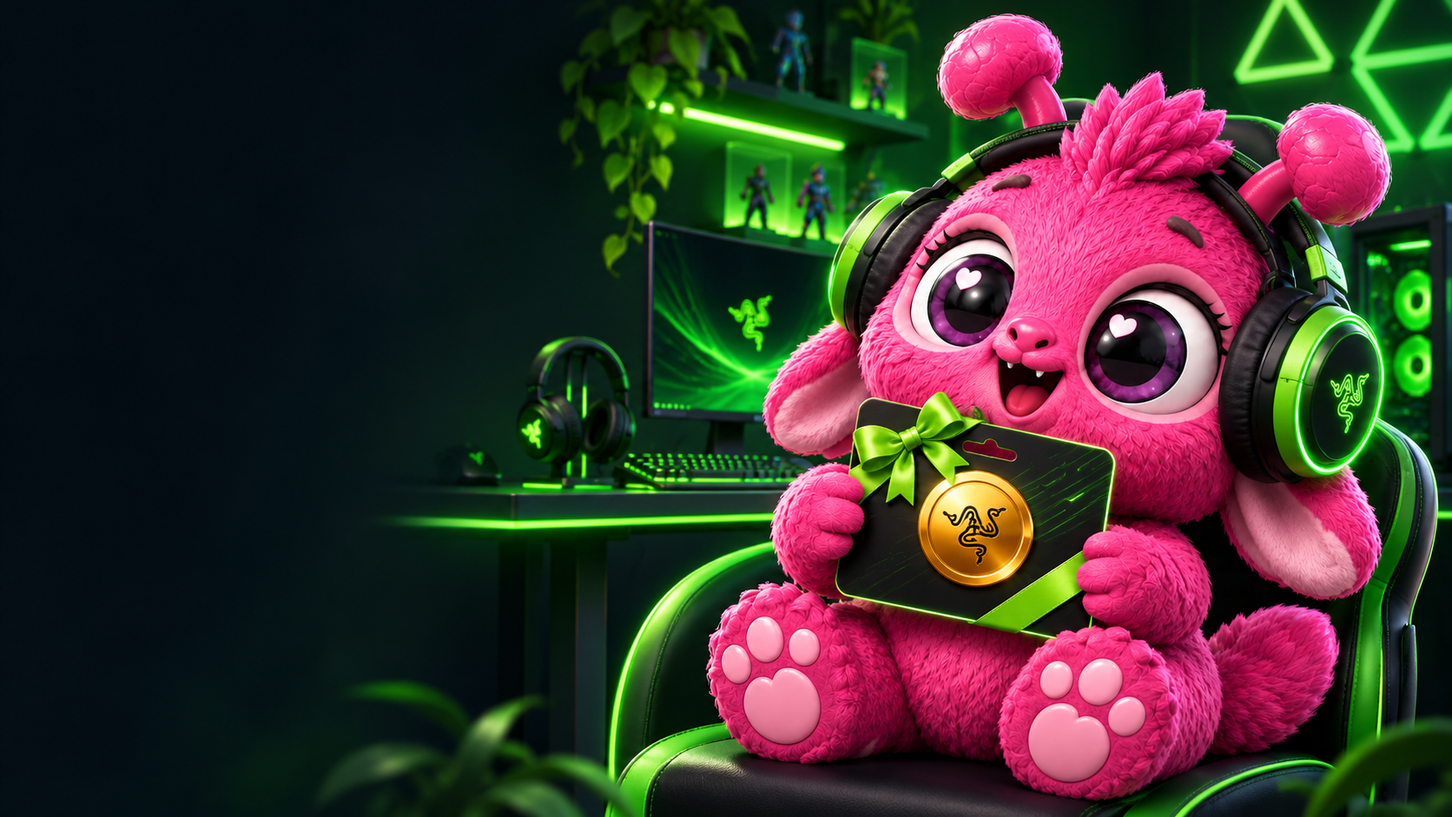
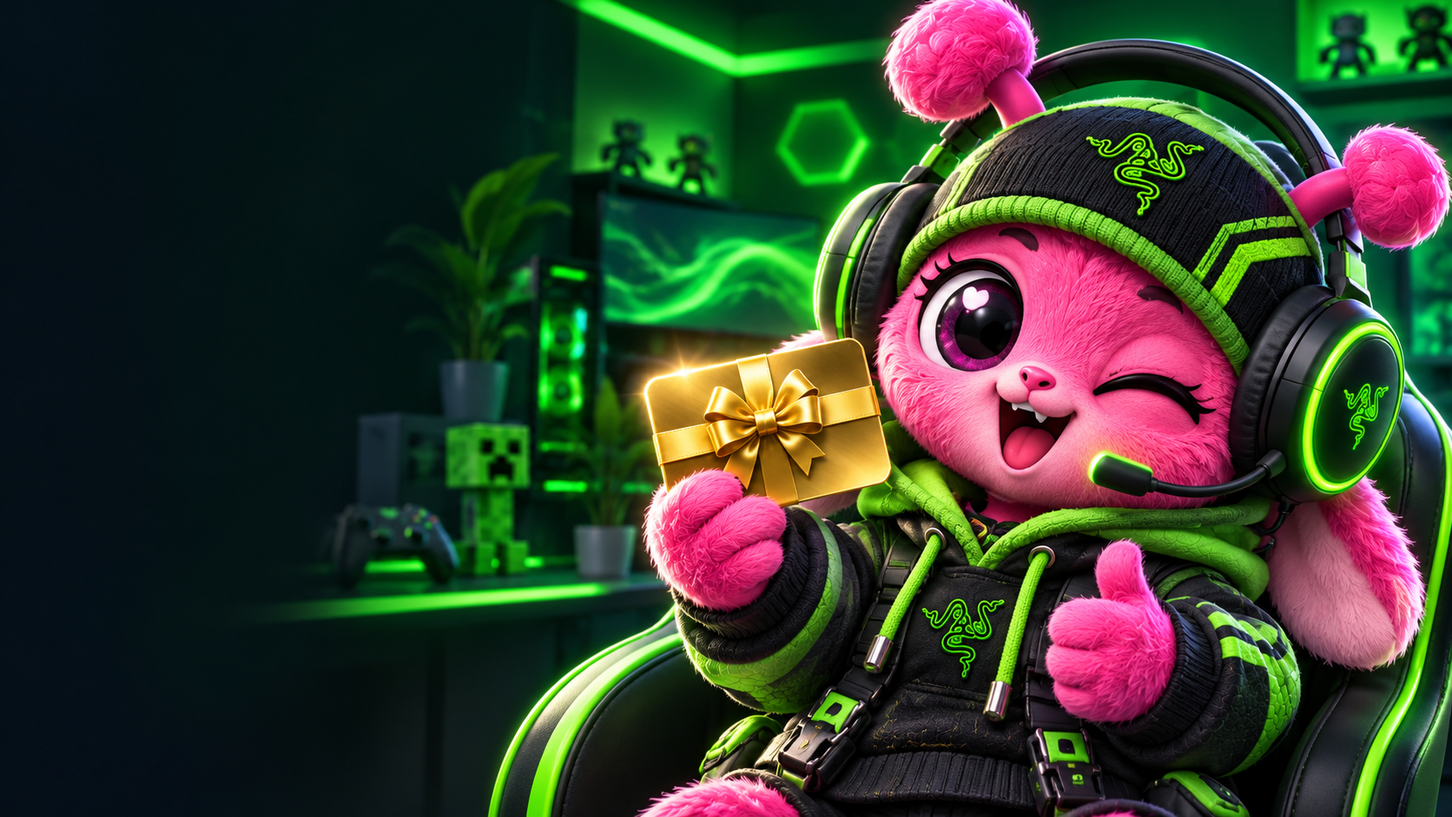
Match new mascot cards to existing catalog style

diff --git a/public/home.html b/public/home.html
@@ -127,7 +127,7 @@ html[data-theme="dark"] .topbar{background:#100e12;border-color:#252128}html[dat
 @media(max-width:1050px){.topbar{gap:12px}.nav{gap:12px}.brand-group{gap:10px}.brand-group .brand{padding-right:10px}.search{width:100%;min-width:0}.nav-right{gap:5px}.nav-right .pill,.account-button{padding:0 9px;font-size:11px}}
 @media(max-width:760px){.topbar{height:auto;min-height:64px;display:flex;flex-wrap:wrap;gap:10px;padding:12px 4%}.brand-group{order:0}.nav-right{order:1;margin-left:auto;display:flex;flex-wrap:wrap}.nav-right .pill{display:inline-flex}.nav{order:2;width:100%;justify-content:flex-start;gap:20px}.search{order:3;width:100%;max-width:none;flex:0 0 100%;margin:0}.nav a[aria-current="page"]:after{bottom:-4px}.nav-right .pill,.account-button{height:36px}.social-button{width:36px;height:36px}}
 @media(max-width:430px){.topbar{padding:12px 4%}.brand-group .brand{font-size:25px}.brand-group{gap:6px}.brand-group .brand{padding-right:6px}.theme-toggle{width:58px;min-width:58px}.nav-right{gap:4px}.nav-right .pill,.account-button{padding:0 7px;font-size:10px}.donut-icon{width:18px;height:18px}}
-</style><link rel="stylesheet" href="/assets/responsive.css?v=6"><link rel="stylesheet" href="/assets/polish.css?v=5"><link rel="stylesheet" href="/assets/platform-icons.css?v=3"><link rel="stylesheet" href="/assets/extra-field.css"></head>
+</style><link rel="stylesheet" href="/assets/responsive.css?v=7"><link rel="stylesheet" href="/assets/polish.css?v=5"><link rel="stylesheet" href="/assets/platform-icons.css?v=3"><link rel="stylesheet" href="/assets/extra-field.css"></head>
 <body>
 <header class="topbar"><div class="brand-group"><a class="brand" href="#top" aria-label="mupple — на главную">mupple</a><button class="round theme-toggle" type="button" aria-label="Включить тёмную тему" aria-pressed="false"><svg class="icon-sun" viewBox="0 0 24 24" fill="none" stroke="currentColor" stroke-width="2" aria-hidden="true"><circle cx="12" cy="12" r="4"/><path d="M12 2v2m0 16v2M4.93 4.93l1.42 1.42m11.3 11.3 1.42 1.42M2 12h2m16 0h2M4.93 19.07l1.42-1.42m11.3-11.3 1.42-1.42"/></svg><svg class="icon-moon" viewBox="0 0 24 24" fill="none" stroke="currentColor" stroke-width="2" aria-hidden="true"><path d="M20.9 13A9 9 0 0 1 11 3.1 9 9 0 1 0 20.9 13Z"/></svg></button></div><nav class="nav" aria-label="Главное меню"><a href="#top" aria-current="page">Главная</a><a href="/faq">FAQ</a><button class="nav-link" type="button" data-open="support-dialog">Поддержка</button></nav><label class="search"><svg viewBox="0 0 24 24" fill="none" stroke="currentColor" stroke-width="2"><circle cx="11" cy="11" r="7"/><path d="m16 16 4 4"/></svg><input id="search" type="search" placeholder="Ускорь процесс поиска" aria-label="Поиск по каталогу"></label><div class="nav-right"><button class="round social-button" type="button" data-open="social-dialog" aria-label="Социальные сети" title="Социальные сети"><svg viewBox="0 0 24 24" fill="none" stroke="currentColor" stroke-width="1.8" aria-hidden="true"><circle cx="18" cy="5" r="2.5"/><circle cx="6" cy="12" r="2.5"/><circle cx="18" cy="19" r="2.5"/><path d="m8.2 10.8 7.6-4.5M8.2 13.2l7.6 4.5"/></svg></button><button class="pill" type="button" data-open="cart-dialog"><svg class="cart-icon" viewBox="0 0 24 24" fill="none" stroke="currentColor" stroke-width="2" aria-hidden="true"><path d="M3 4h2l2.2 10.2h10.6l2-7.2H6"/><circle cx="9" cy="19" r="1.5"/><circle cx="17" cy="19" r="1.5"/></svg>КОРЗИНА <span id="cart-count">0</span></button><a class="pill donut-button" href="/donuts">DONUTS <span id="header-bonuses">0</span> <img class="donut-icon" src="/assets/donut-cartoon.png" alt="" width="26" height="26"></a><button class="account-button" id="account-button" type="button">ВОЙТИ</button></div></header>
 <main class="wrap" id="top"><div class="hero-grid"><section class="hero"><span class="hero-ground" aria-hidden="true"></span><div class="hero-copy"><h1>Сделай<br>игру<br><span class="pink">слаще</span></h1><p>Твой следующий любимый момент начинается с новой игры.</p><a class="primary" href="#balance">Пополнить баланс <span>↓</span></a></div><div class="ribbon" aria-hidden="true"><div class="ribbon-track"><span>MUPPLE <svg class="ribbon-gamepad" viewBox="0 0 64 48" aria-hidden="true"><path fill="currentColor" d="M16 7h32c7 0 11 5 13 12l3 13c2 9-4 15-11 13l-10-7H21l-10 7C4 47-2 41 0 32l3-13C5 12 9 7 16 7Z"/><path d="M15 18v12m-6-6h12" stroke="var(--ribbon-icon-detail)" stroke-width="4" stroke-linecap="round"/><circle cx="47" cy="20" r="2.5" fill="var(--ribbon-icon-detail)"/><circle cx="53" cy="25" r="2.5" fill="var(--ribbon-icon-detail)"/><circle cx="47" cy="30" r="2.5" fill="var(--ribbon-icon-detail)"/><circle cx="41" cy="25" r="2.5" fill="var(--ribbon-icon-detail)"/></svg> MUPPLE <svg class="ribbon-gamepad" viewBox="0 0 64 48" aria-hidden="true"><path fill="currentColor" d="M16 7h32c7 0 11 5 13 12l3 13c2 9-4 15-11 13l-10-7H21l-10 7C4 47-2 41 0 32l3-13C5 12 9 7 16 7Z"/><path d="M15 18v12m-6-6h12" stroke="var(--ribbon-icon-detail)" stroke-width="4" stroke-linecap="round"/><circle cx="47" cy="20" r="2.5" fill="var(--ribbon-icon-detail)"/><circle cx="53" cy="25" r="2.5" fill="var(--ribbon-icon-detail)"/><circle cx="47" cy="30" r="2.5" fill="var(--ribbon-icon-detail)"/><circle cx="41" cy="25" r="2.5" fill="var(--ribbon-icon-detail)"/></svg> MUPPLE <svg class="ribbon-gamepad" viewBox="0 0 64 48" aria-hidden="true"><path fill="currentColor" d="M16 7h32c7 0 11 5 13 12l3 13c2 9-4 15-11 13l-10-7H21l-10 7C4 47-2 41 0 32l3-13C5 12 9 7 16 7Z"/><path d="M15 18v12m-6-6h12" stroke="var(--ribbon-icon-detail)" stroke-width="4" stroke-linecap="round"/><circle cx="47" cy="20" r="2.5" fill="var(--ribbon-icon-detail)"/><circle cx="53" cy="25" r="2.5" fill="var(--ribbon-icon-detail)"/><circle cx="47" cy="30" r="2.5" fill="var(--ribbon-icon-detail)"/><circle cx="41" cy="25" r="2.5" fill="var(--ribbon-icon-detail)"/></svg> MUPPLE <svg class="ribbon-gamepad" viewBox="0 0 64 48" aria-hidden="true"><path fill="currentColor" d="M16 7h32c7 0 11 5 13 12l3 13c2 9-4 15-11 13l-10-7H21l-10 7C4 47-2 41 0 32l3-13C5 12 9 7 16 7Z"/><path d="M15 18v12m-6-6h12" stroke="var(--ribbon-icon-detail)" stroke-width="4" stroke-linecap="round"/><circle cx="47" cy="20" r="2.5" fill="var(--ribbon-icon-detail)"/><circle cx="53" cy="25" r="2.5" fill="var(--ribbon-icon-detail)"/><circle cx="47" cy="30" r="2.5" fill="var(--ribbon-icon-detail)"/><circle cx="41" cy="25" r="2.5" fill="var(--ribbon-icon-detail)"/></svg> </span><span>MUPPLE <svg class="ribbon-gamepad" viewBox="0 0 64 48" aria-hidden="true"><path fill="currentColor" d="M16 7h32c7 0 11 5 13 12l3 13c2 9-4 15-11 13l-10-7H21l-10 7C4 47-2 41 0 32l3-13C5 12 9 7 16 7Z"/><path d="M15 18v12m-6-6h12" stroke="var(--ribbon-icon-detail)" stroke-width="4" stroke-linecap="round"/><circle cx="47" cy="20" r="2.5" fill="var(--ribbon-icon-detail)"/><circle cx="53" cy="25" r="2.5" fill="var(--ribbon-icon-detail)"/><circle cx="47" cy="30" r="2.5" fill="var(--ribbon-icon-detail)"/><circle cx="41" cy="25" r="2.5" fill="var(--ribbon-icon-detail)"/></svg> MUPPLE <svg class="ribbon-gamepad" viewBox="0 0 64 48" aria-hidden="true"><path fill="currentColor" d="M16 7h32c7 0 11 5 13 12l3 13c2 9-4 15-11 13l-10-7H21l-10 7C4 47-2 41 0 32l3-13C5 12 9 7 16 7Z"/><path d="M15 18v12m-6-6h12" stroke="var(--ribbon-icon-detail)" stroke-width="4" stroke-linecap="round"/><circle cx="47" cy="20" r="2.5" fill="var(--ribbon-icon-detail)"/><circle cx="53" cy="25" r="2.5" fill="var(--ribbon-icon-detail)"/><circle cx="47" cy="30" r="2.5" fill="var(--ribbon-icon-detail)"/><circle cx="41" cy="25" r="2.5" fill="var(--ribbon-icon-detail)"/></svg> MUPPLE <svg class="ribbon-gamepad" viewBox="0 0 64 48" aria-hidden="true"><path fill="currentColor" d="M16 7h32c7 0 11 5 13 12l3 13c2 9-4 15-11 13l-10-7H21l-10 7C4 47-2 41 0 32l3-13C5 12 9 7 16 7Z"/><path d="M15 18v12m-6-6h12" stroke="var(--ribbon-icon-detail)" stroke-width="4" stroke-linecap="round"/><circle cx="47" cy="20" r="2.5" fill="var(--ribbon-icon-detail)"/><circle cx="53" cy="25" r="2.5" fill="var(--ribbon-icon-detail)"/><circle cx="47" cy="30" r="2.5" fill="var(--ribbon-icon-detail)"/><circle cx="41" cy="25" r="2.5" fill="var(--ribbon-icon-detail)"/></svg> MUPPLE <svg class="ribbon-gamepad" viewBox="0 0 64 48" aria-hidden="true"><path fill="currentColor" d="M16 7h32c7 0 11 5 13 12l3 13c2 9-4 15-11 13l-10-7H21l-10 7C4 47-2 41 0 32l3-13C5 12 9 7 16 7Z"/><path d="M15 18v12m-6-6h12" stroke="var(--ribbon-icon-detail)" stroke-width="4" stroke-linecap="round"/><circle cx="47" cy="20" r="2.5" fill="var(--ribbon-icon-detail)"/><circle cx="53" cy="25" r="2.5" fill="var(--ribbon-icon-detail)"/><circle cx="47" cy="30" r="2.5" fill="var(--ribbon-icon-detail)"/><circle cx="41" cy="25" r="2.5" fill="var(--ribbon-icon-detail)"/></svg> </span></div></div></section><section class="form-card" id="balance"><div class="form-head"><div class="steam-icon" data-platform-icon="steam" aria-hidden="true"><img src="/assets/platforms/steam.jpg" alt=""><span class="platform-initials" hidden></span></div><span class="badge">ПОПОЛНЕНИЕ</span></div><h2>ЗАРЯДИ БАЛАНС</h2><form id="topup"><div class="field"><label for="platform">Площадка</label><select id="platform"><option>Steam</option><option>Telegram Stars</option><option>Marvel Rivals</option><option>Free Fire</option><option>PUBG Mobile</option><option>Honkai: Star Rail</option></select></div><div class="field"><label for="login" id="login-label">Логин Steam</label><input id="login" placeholder="Логин, не никнейм" autocomplete="off"></div><div class="field" id="region-field"><label for="region">Регион Steam</label><select id="region"><option value="RUB">Россия · RUB</option><option value="KZT">Казахстан · KZT</option><option value="UAH">Украина · UAH</option></select></div><div class="field" id="extra-field" hidden><label for="extra-info" id="extra-label">Дополнительная информация (необязательно)</label><input id="extra-info" maxlength="120" autocomplete="off" placeholder="Без паролей и кодов входа"></div><div class="field" id="stars-field" hidden><label for="stars">Количество звёзд Telegram</label><input id="stars" type="number" min="1" max="13000000" step="1" inputmode="numeric" placeholder="Введите количество звёзд" required disabled></div><div class="field"><label for="amount">Сумма пополнения</label><div class="hint" id="currency-label">RUB ₽</div><div class="amount-wrap"><input id="amount" type="number" value="1000" min="1" max="10000000" step="0.01"><span id="currency-sign">₽</span></div><div class="amounts"><button type="button" data-amount="500">500 ₽</button><button class="active" type="button" data-amount="1000">1 000 ₽</button><button type="button" data-amount="2500">2 500 ₽</button><button type="button" data-amount="5000">5 000 ₽</button></div><p class="hint" id="amount-hint">Укажите желаемую сумму пополнения.</p></div><button class="primary" type="submit">В корзину <span>→</span></button><p class="note">После подтверждённой оплаты начисляется 5% в пончиках. Оплата пока не подключена.</p></form></section></div>
@@ -181,7 +181,7 @@ const products=[
 ];
 const productScenes=[0,1,2,1,1,0,5,1,4,2,3,1,1,6,4,2,1,0,6,7,5,0,5,7,2,5,5];
 let category='Все';const cards=document.querySelector('#cards'),empty=document.querySelector('#empty'),search=document.querySelector('#search');
-function render(){const query=search.value.trim().toLocaleLowerCase('ru');const matches=products.filter(item=>!item.hiddenFromCatalog&&(query||category==='Все'||item.group===category)&&(!query||`${item.name} ${item.group}`.toLocaleLowerCase('ru').includes(query)));cards.innerHTML=matches.map(item=>`<article class="product" style="--scene-x:${(productScenes[products.indexOf(item)]%4)*100/3}%;--scene-y:${Math.floor(productScenes[products.indexOf(item)]/4)*100}%"><span class="product-scene ${item.image?'custom-scene':''}" style="--new-image:url(/assets/category-${item.image||'arena'}.png?v=2);--cinematic-image:url(/assets/catalog-cinematic-${Math.floor(products.indexOf(item)/6)+1}.png);--cinematic-x:${(products.indexOf(item)%2)*100}%;--cinematic-y:${Math.floor((products.indexOf(item)%6)/2)*50}%;--cinematic-ratio:${Math.floor(products.indexOf(item)/6)===1?2.25:2.665}" aria-hidden="true"></span><small>${item.group}</small><h3>${item.name}</h3><p>${item.group === "Подписки" ? "Подписки и предложения" : item.group === "Донат" ? "Товары для любимой игры" : "Пополнение и предложения"}</p><button class="product-view" type="button" data-product="${products.indexOf(item)}" aria-label="Посмотреть ${item.name}">Посмотреть →</button></article>`).join('');empty.hidden=matches.length>0}
+function render(){const query=search.value.trim().toLocaleLowerCase('ru');const matches=products.filter(item=>!item.hiddenFromCatalog&&(query||category==='Все'||item.group===category)&&(!query||`${item.name} ${item.group}`.toLocaleLowerCase('ru').includes(query)));cards.innerHTML=matches.map(item=>`<article class="product" style="--scene-x:${(productScenes[products.indexOf(item)]%4)*100/3}%;--scene-y:${Math.floor(productScenes[products.indexOf(item)]/4)*100}%"><span class="product-scene ${item.image?'custom-scene':''}" style="--new-image:url(/assets/category-${item.image||'arena'}.png?v=3);--cinematic-image:url(/assets/catalog-cinematic-${Math.floor(products.indexOf(item)/6)+1}.png);--cinematic-x:${(products.indexOf(item)%2)*100}%;--cinematic-y:${Math.floor((products.indexOf(item)%6)/2)*50}%;--cinematic-ratio:${Math.floor(products.indexOf(item)/6)===1?2.25:2.665}" aria-hidden="true"></span><small>${item.group}</small><h3>${item.name}</h3><p>${item.group === "Подписки" ? "Подписки и предложения" : item.group === "Донат" ? "Товары для любимой игры" : "Пополнение и предложения"}</p><button class="product-view" type="button" data-product="${products.indexOf(item)}" aria-label="Посмотреть ${item.name}">Посмотреть →</button></article>`).join('');empty.hidden=matches.length>0}
 cards.addEventListener('click',event=>{const card=event.target.closest('.product');if(!card||!cards.contains(card))return;const button=card.querySelector('[data-product]');if(!button)return;const item=products[Number(button.dataset.product)];if(!item)return;window.location.href='/catalog.html?'+new URLSearchParams({product:item.name}).toString()});
 document.querySelectorAll('.tab').forEach(btn=>btn.addEventListener('click',()=>{category=btn.dataset.category;document.querySelectorAll('.tab').forEach(t=>{t.classList.toggle('active',t===btn);t.setAttribute('aria-selected',t===btn?'true':'false')});render()}));search.addEventListener('input',render);search.addEventListener('keydown',e=>{if(e.key==='Enter')document.querySelector('#catalog').scrollIntoView({behavior:'smooth'})});document.querySelectorAll('[data-amount]').forEach(btn=>btn.addEventListener('click',()=>{document.querySelector('#amount').value=btn.dataset.amount;document.querySelectorAll('[data-amount]').forEach(b=>b.classList.toggle('active',b===btn));updateStarsFromAmount()}));document.querySelector('#amount').addEventListener('input',e=>{document.querySelectorAll('[data-amount]').forEach(b=>b.classList.toggle('active',Number(b.dataset.amount)===Number(e.target.value)&&e.target.value!==''));updateStarsFromAmount()});let presetCurrency=null;function updateCurrency(){const steam=document.querySelector('#platform').value==='Steam',currency=steam?document.querySelector('#region').value:'RUB',sign=currencySigns[currency],presets={RUB:[500,1000,2500,5000],KZT:[3000,6000,14000,28000],UAH:[300,600,1400,2800]}[currency],amount=document.querySelector('#amount');if(presetCurrency!==null&&presetCurrency!==currency)amount.value=presets[1];presetCurrency=currency;document.querySelector('#currency-label').textContent=currency+' '+sign;document.querySelector('#currency-sign').textContent=sign;document.querySelectorAll('[data-amount]').forEach((button,index)=>{button.dataset.amount=String(presets[index]);button.textContent=presets[index].toLocaleString('ru-RU')+' '+sign;button.classList.toggle('active',button.dataset.amount===amount.value)})}
 const platformIcons={'Steam':{type:'steam',image:'/assets/platforms/steam.jpg'},'Telegram Stars':{type:'telegram',image:'/assets/platforms/telegram.jpg'},'Marvel Rivals':{type:'marvel',image:'/assets/platforms/marvel.jpg'},'Free Fire':{type:'freefire',image:'/assets/platforms/freefire-logo.png'},'PUBG Mobile':{type:'pubg',image:'/assets/platforms/pubg-logo.svg'},'Honkai: Star Rail':{type:'honkai',image:'/assets/platforms/honkai-logo.svg'}};

diff --git a/public/index.html b/public/index.html
@@ -127,7 +127,7 @@ html[data-theme="dark"] .topbar{background:#100e12;border-color:#252128}html[dat
 @media(max-width:1050px){.topbar{gap:12px}.nav{gap:12px}.brand-group{gap:10px}.brand-group .brand{padding-right:10px}.search{width:100%;min-width:0}.nav-right{gap:5px}.nav-right .pill,.account-button{padding:0 9px;font-size:11px}}
 @media(max-width:760px){.topbar{height:auto;min-height:64px;display:flex;flex-wrap:wrap;gap:10px;padding:12px 4%}.brand-group{order:0}.nav-right{order:1;margin-left:auto;display:flex;flex-wrap:wrap}.nav-right .pill{display:inline-flex}.nav{order:2;width:100%;justify-content:flex-start;gap:20px}.search{order:3;width:100%;max-width:none;flex:0 0 100%;margin:0}.nav a[aria-current="page"]:after{bottom:-4px}.nav-right .pill,.account-button{height:36px}.social-button{width:36px;height:36px}}
 @media(max-width:430px){.topbar{padding:12px 4%}.brand-group .brand{font-size:25px}.brand-group{gap:6px}.brand-group .brand{padding-right:6px}.theme-toggle{width:58px;min-width:58px}.nav-right{gap:4px}.nav-right .pill,.account-button{padding:0 7px;font-size:10px}.donut-icon{width:18px;height:18px}}
-</style><link rel="stylesheet" href="/assets/responsive.css?v=6"><link rel="stylesheet" href="/assets/polish.css?v=5"><link rel="stylesheet" href="/assets/platform-icons.css?v=3"><link rel="stylesheet" href="/assets/extra-field.css"></head>
+</style><link rel="stylesheet" href="/assets/responsive.css?v=7"><link rel="stylesheet" href="/assets/polish.css?v=5"><link rel="stylesheet" href="/assets/platform-icons.css?v=3"><link rel="stylesheet" href="/assets/extra-field.css"></head>
 <body>
 <header class="topbar"><div class="brand-group"><a class="brand" href="#top" aria-label="mupple — на главную">mupple</a><button class="round theme-toggle" type="button" aria-label="Включить тёмную тему" aria-pressed="false"><svg class="icon-sun" viewBox="0 0 24 24" fill="none" stroke="currentColor" stroke-width="2" aria-hidden="true"><circle cx="12" cy="12" r="4"/><path d="M12 2v2m0 16v2M4.93 4.93l1.42 1.42m11.3 11.3 1.42 1.42M2 12h2m16 0h2M4.93 19.07l1.42-1.42m11.3-11.3 1.42-1.42"/></svg><svg class="icon-moon" viewBox="0 0 24 24" fill="none" stroke="currentColor" stroke-width="2" aria-hidden="true"><path d="M20.9 13A9 9 0 0 1 11 3.1 9 9 0 1 0 20.9 13Z"/></svg></button></div><nav class="nav" aria-label="Главное меню"><a href="#top" aria-current="page">Главная</a><a href="/faq">FAQ</a><button class="nav-link" type="button" data-open="support-dialog">Поддержка</button></nav><label class="search"><svg viewBox="0 0 24 24" fill="none" stroke="currentColor" stroke-width="2"><circle cx="11" cy="11" r="7"/><path d="m16 16 4 4"/></svg><input id="search" type="search" placeholder="Ускорь процесс поиска" aria-label="Поиск по каталогу"></label><div class="nav-right"><button class="round social-button" type="button" data-open="social-dialog" aria-label="Социальные сети" title="Социальные сети"><svg viewBox="0 0 24 24" fill="none" stroke="currentColor" stroke-width="1.8" aria-hidden="true"><circle cx="18" cy="5" r="2.5"/><circle cx="6" cy="12" r="2.5"/><circle cx="18" cy="19" r="2.5"/><path d="m8.2 10.8 7.6-4.5M8.2 13.2l7.6 4.5"/></svg></button><button class="pill" type="button" data-open="cart-dialog"><svg class="cart-icon" viewBox="0 0 24 24" fill="none" stroke="currentColor" stroke-width="2" aria-hidden="true"><path d="M3 4h2l2.2 10.2h10.6l2-7.2H6"/><circle cx="9" cy="19" r="1.5"/><circle cx="17" cy="19" r="1.5"/></svg>КОРЗИНА <span id="cart-count">0</span></button><a class="pill donut-button" href="/donuts">DONUTS <span id="header-bonuses">0</span> <img class="donut-icon" src="/assets/donut-cartoon.png" alt="" width="26" height="26"></a><button class="account-button" id="account-button" type="button">ВОЙТИ</button></div></header>
 <main class="wrap" id="top"><div class="hero-grid"><section class="hero"><span class="hero-ground" aria-hidden="true"></span><div class="hero-copy"><h1>Сделай<br>игру<br><span class="pink">слаще</span></h1><p>Твой следующий любимый момент начинается с новой игры.</p><a class="primary" href="#balance">Пополнить баланс <span>↓</span></a></div><div class="ribbon" aria-hidden="true"><div class="ribbon-track"><span>MUPPLE <svg class="ribbon-gamepad" viewBox="0 0 64 48" aria-hidden="true"><path fill="currentColor" d="M16 7h32c7 0 11 5 13 12l3 13c2 9-4 15-11 13l-10-7H21l-10 7C4 47-2 41 0 32l3-13C5 12 9 7 16 7Z"/><path d="M15 18v12m-6-6h12" stroke="var(--ribbon-icon-detail)" stroke-width="4" stroke-linecap="round"/><circle cx="47" cy="20" r="2.5" fill="var(--ribbon-icon-detail)"/><circle cx="53" cy="25" r="2.5" fill="var(--ribbon-icon-detail)"/><circle cx="47" cy="30" r="2.5" fill="var(--ribbon-icon-detail)"/><circle cx="41" cy="25" r="2.5" fill="var(--ribbon-icon-detail)"/></svg> MUPPLE <svg class="ribbon-gamepad" viewBox="0 0 64 48" aria-hidden="true"><path fill="currentColor" d="M16 7h32c7 0 11 5 13 12l3 13c2 9-4 15-11 13l-10-7H21l-10 7C4 47-2 41 0 32l3-13C5 12 9 7 16 7Z"/><path d="M15 18v12m-6-6h12" stroke="var(--ribbon-icon-detail)" stroke-width="4" stroke-linecap="round"/><circle cx="47" cy="20" r="2.5" fill="var(--ribbon-icon-detail)"/><circle cx="53" cy="25" r="2.5" fill="var(--ribbon-icon-detail)"/><circle cx="47" cy="30" r="2.5" fill="var(--ribbon-icon-detail)"/><circle cx="41" cy="25" r="2.5" fill="var(--ribbon-icon-detail)"/></svg> MUPPLE <svg class="ribbon-gamepad" viewBox="0 0 64 48" aria-hidden="true"><path fill="currentColor" d="M16 7h32c7 0 11 5 13 12l3 13c2 9-4 15-11 13l-10-7H21l-10 7C4 47-2 41 0 32l3-13C5 12 9 7 16 7Z"/><path d="M15 18v12m-6-6h12" stroke="var(--ribbon-icon-detail)" stroke-width="4" stroke-linecap="round"/><circle cx="47" cy="20" r="2.5" fill="var(--ribbon-icon-detail)"/><circle cx="53" cy="25" r="2.5" fill="var(--ribbon-icon-detail)"/><circle cx="47" cy="30" r="2.5" fill="var(--ribbon-icon-detail)"/><circle cx="41" cy="25" r="2.5" fill="var(--ribbon-icon-detail)"/></svg> MUPPLE <svg class="ribbon-gamepad" viewBox="0 0 64 48" aria-hidden="true"><path fill="currentColor" d="M16 7h32c7 0 11 5 13 12l3 13c2 9-4 15-11 13l-10-7H21l-10 7C4 47-2 41 0 32l3-13C5 12 9 7 16 7Z"/><path d="M15 18v12m-6-6h12" stroke="var(--ribbon-icon-detail)" stroke-width="4" stroke-linecap="round"/><circle cx="47" cy="20" r="2.5" fill="var(--ribbon-icon-detail)"/><circle cx="53" cy="25" r="2.5" fill="var(--ribbon-icon-detail)"/><circle cx="47" cy="30" r="2.5" fill="var(--ribbon-icon-detail)"/><circle cx="41" cy="25" r="2.5" fill="var(--ribbon-icon-detail)"/></svg> </span><span>MUPPLE <svg class="ribbon-gamepad" viewBox="0 0 64 48" aria-hidden="true"><path fill="currentColor" d="M16 7h32c7 0 11 5 13 12l3 13c2 9-4 15-11 13l-10-7H21l-10 7C4 47-2 41 0 32l3-13C5 12 9 7 16 7Z"/><path d="M15 18v12m-6-6h12" stroke="var(--ribbon-icon-detail)" stroke-width="4" stroke-linecap="round"/><circle cx="47" cy="20" r="2.5" fill="var(--ribbon-icon-detail)"/><circle cx="53" cy="25" r="2.5" fill="var(--ribbon-icon-detail)"/><circle cx="47" cy="30" r="2.5" fill="var(--ribbon-icon-detail)"/><circle cx="41" cy="25" r="2.5" fill="var(--ribbon-icon-detail)"/></svg> MUPPLE <svg class="ribbon-gamepad" viewBox="0 0 64 48" aria-hidden="true"><path fill="currentColor" d="M16 7h32c7 0 11 5 13 12l3 13c2 9-4 15-11 13l-10-7H21l-10 7C4 47-2 41 0 32l3-13C5 12 9 7 16 7Z"/><path d="M15 18v12m-6-6h12" stroke="var(--ribbon-icon-detail)" stroke-width="4" stroke-linecap="round"/><circle cx="47" cy="20" r="2.5" fill="var(--ribbon-icon-detail)"/><circle cx="53" cy="25" r="2.5" fill="var(--ribbon-icon-detail)"/><circle cx="47" cy="30" r="2.5" fill="var(--ribbon-icon-detail)"/><circle cx="41" cy="25" r="2.5" fill="var(--ribbon-icon-detail)"/></svg> MUPPLE <svg class="ribbon-gamepad" viewBox="0 0 64 48" aria-hidden="true"><path fill="currentColor" d="M16 7h32c7 0 11 5 13 12l3 13c2 9-4 15-11 13l-10-7H21l-10 7C4 47-2 41 0 32l3-13C5 12 9 7 16 7Z"/><path d="M15 18v12m-6-6h12" stroke="var(--ribbon-icon-detail)" stroke-width="4" stroke-linecap="round"/><circle cx="47" cy="20" r="2.5" fill="var(--ribbon-icon-detail)"/><circle cx="53" cy="25" r="2.5" fill="var(--ribbon-icon-detail)"/><circle cx="47" cy="30" r="2.5" fill="var(--ribbon-icon-detail)"/><circle cx="41" cy="25" r="2.5" fill="var(--ribbon-icon-detail)"/></svg> MUPPLE <svg class="ribbon-gamepad" viewBox="0 0 64 48" aria-hidden="true"><path fill="currentColor" d="M16 7h32c7 0 11 5 13 12l3 13c2 9-4 15-11 13l-10-7H21l-10 7C4 47-2 41 0 32l3-13C5 12 9 7 16 7Z"/><path d="M15 18v12m-6-6h12" stroke="var(--ribbon-icon-detail)" stroke-width="4" stroke-linecap="round"/><circle cx="47" cy="20" r="2.5" fill="var(--ribbon-icon-detail)"/><circle cx="53" cy="25" r="2.5" fill="var(--ribbon-icon-detail)"/><circle cx="47" cy="30" r="2.5" fill="var(--ribbon-icon-detail)"/><circle cx="41" cy="25" r="2.5" fill="var(--ribbon-icon-detail)"/></svg> </span></div></div></section><section class="form-card" id="balance"><div class="form-head"><div class="steam-icon" data-platform-icon="steam" aria-hidden="true"><img src="/assets/platforms/steam.jpg" alt=""><span class="platform-initials" hidden></span></div><span class="badge">ПОПОЛНЕНИЕ</span></div><h2>ЗАРЯДИ БАЛАНС</h2><form id="topup"><div class="field"><label for="platform">Площадка</label><select id="platform"><option>Steam</option><option>Telegram Stars</option><option>Marvel Rivals</option><option>Free Fire</option><option>PUBG Mobile</option><option>Honkai: Star Rail</option></select></div><div class="field"><label for="login" id="login-label">Логин Steam</label><input id="login" placeholder="Логин, не никнейм" autocomplete="off"></div><div class="field" id="region-field"><label for="region">Регион Steam</label><select id="region"><option value="RUB">Россия · RUB</option><option value="KZT">Казахстан · KZT</option><option value="UAH">Украина · UAH</option></select></div><div class="field" id="extra-field" hidden><label for="extra-info" id="extra-label">Дополнительная информация (необязательно)</label><input id="extra-info" maxlength="120" autocomplete="off" placeholder="Без паролей и кодов входа"></div><div class="field" id="stars-field" hidden><label for="stars">Количество звёзд Telegram</label><input id="stars" type="number" min="1" max="13000000" step="1" inputmode="numeric" placeholder="Введите количество звёзд" required disabled></div><div class="field"><label for="amount">Сумма пополнения</label><div class="hint" id="currency-label">RUB ₽</div><div class="amount-wrap"><input id="amount" type="number" value="1000" min="1" max="10000000" step="0.01"><span id="currency-sign">₽</span></div><div class="amounts"><button type="button" data-amount="500">500 ₽</button><button class="active" type="button" data-amount="1000">1 000 ₽</button><button type="button" data-amount="2500">2 500 ₽</button><button type="button" data-amount="5000">5 000 ₽</button></div><p class="hint" id="amount-hint">Укажите желаемую сумму пополнения.</p></div><button class="primary" type="submit">В корзину <span>→</span></button><p class="note">После подтверждённой оплаты начисляется 5% в пончиках. Оплата пока не подключена.</p></form></section></div>
@@ -181,7 +181,7 @@ const products=[
 ];
 const productScenes=[0,1,2,1,1,0,5,1,4,2,3,1,1,6,4,2,1,0,6,7,5,0,5,7,2,5,5];
 let category='Все';const cards=document.querySelector('#cards'),empty=document.querySelector('#empty'),search=document.querySelector('#search');
-function render(){const query=search.value.trim().toLocaleLowerCase('ru');const matches=products.filter(item=>!item.hiddenFromCatalog&&(query||category==='Все'||item.group===category)&&(!query||`${item.name} ${item.group}`.toLocaleLowerCase('ru').includes(query)));cards.innerHTML=matches.map(item=>`<article class="product" style="--scene-x:${(productScenes[products.indexOf(item)]%4)*100/3}%;--scene-y:${Math.floor(productScenes[products.indexOf(item)]/4)*100}%"><span class="product-scene ${item.image?'custom-scene':''}" style="--new-image:url(/assets/category-${item.image||'arena'}.png?v=2);--cinematic-image:url(/assets/catalog-cinematic-${Math.floor(products.indexOf(item)/6)+1}.png);--cinematic-x:${(products.indexOf(item)%2)*100}%;--cinematic-y:${Math.floor((products.indexOf(item)%6)/2)*50}%;--cinematic-ratio:${Math.floor(products.indexOf(item)/6)===1?2.25:2.665}" aria-hidden="true"></span><small>${item.group}</small><h3>${item.name}</h3><p>${item.group === "Подписки" ? "Подписки и предложения" : item.group === "Донат" ? "Товары для любимой игры" : "Пополнение и предложения"}</p><button class="product-view" type="button" data-product="${products.indexOf(item)}" aria-label="Посмотреть ${item.name}">Посмотреть →</button></article>`).join('');empty.hidden=matches.length>0}
+function render(){const query=search.value.trim().toLocaleLowerCase('ru');const matches=products.filter(item=>!item.hiddenFromCatalog&&(query||category==='Все'||item.group===category)&&(!query||`${item.name} ${item.group}`.toLocaleLowerCase('ru').includes(query)));cards.innerHTML=matches.map(item=>`<article class="product" style="--scene-x:${(productScenes[products.indexOf(item)]%4)*100/3}%;--scene-y:${Math.floor(productScenes[products.indexOf(item)]/4)*100}%"><span class="product-scene ${item.image?'custom-scene':''}" style="--new-image:url(/assets/category-${item.image||'arena'}.png?v=3);--cinematic-image:url(/assets/catalog-cinematic-${Math.floor(products.indexOf(item)/6)+1}.png);--cinematic-x:${(products.indexOf(item)%2)*100}%;--cinematic-y:${Math.floor((products.indexOf(item)%6)/2)*50}%;--cinematic-ratio:${Math.floor(products.indexOf(item)/6)===1?2.25:2.665}" aria-hidden="true"></span><small>${item.group}</small><h3>${item.name}</h3><p>${item.group === "Подписки" ? "Подписки и предложения" : item.group === "Донат" ? "Товары для любимой игры" : "Пополнение и предложения"}</p><button class="product-view" type="button" data-product="${products.indexOf(item)}" aria-label="Посмотреть ${item.name}">Посмотреть →</button></article>`).join('');empty.hidden=matches.length>0}
 cards.addEventListener('click',event=>{const card=event.target.closest('.product');if(!card||!cards.contains(card))return;const button=card.querySelector('[data-product]');if(!button)return;const item=products[Number(button.dataset.product)];if(!item)return;window.location.href='/catalog.html?'+new URLSearchParams({product:item.name}).toString()});
 document.querySelectorAll('.tab').forEach(btn=>btn.addEventListener('click',()=>{category=btn.dataset.category;document.querySelectorAll('.tab').forEach(t=>{t.classList.toggle('active',t===btn);t.setAttribute('aria-selected',t===btn?'true':'false')});render()}));search.addEventListener('input',render);search.addEventListener('keydown',e=>{if(e.key==='Enter')document.querySelector('#catalog').scrollIntoView({behavior:'smooth'})});document.querySelectorAll('[data-amount]').forEach(btn=>btn.addEventListener('click',()=>{document.querySelector('#amount').value=btn.dataset.amount;document.querySelectorAll('[data-amount]').forEach(b=>b.classList.toggle('active',b===btn));updateStarsFromAmount()}));document.querySelector('#amount').addEventListener('input',e=>{document.querySelectorAll('[data-amount]').forEach(b=>b.classList.toggle('active',Number(b.dataset.amount)===Number(e.target.value)&&e.target.value!==''));updateStarsFromAmount()});let presetCurrency=null;function updateCurrency(){const steam=document.querySelector('#platform').value==='Steam',currency=steam?document.querySelector('#region').value:'RUB',sign=currencySigns[currency],presets={RUB:[500,1000,2500,5000],KZT:[3000,6000,14000,28000],UAH:[300,600,1400,2800]}[currency],amount=document.querySelector('#amount');if(presetCurrency!==null&&presetCurrency!==currency)amount.value=presets[1];presetCurrency=currency;document.querySelector('#currency-label').textContent=currency+' '+sign;document.querySelector('#currency-sign').textContent=sign;document.querySelectorAll('[data-amount]').forEach((button,index)=>{button.dataset.amount=String(presets[index]);button.textContent=presets[index].toLocaleString('ru-RU')+' '+sign;button.classList.toggle('active',button.dataset.amount===amount.value)})}
 const platformIcons={'Steam':{type:'steam',image:'/assets/platforms/steam.jpg'},'Telegram Stars':{type:'telegram',image:'/assets/platforms/telegram.jpg'},'Marvel Rivals':{type:'marvel',image:'/assets/platforms/marvel.jpg'},'Free Fire':{type:'freefire',image:'/assets/platforms/freefire-logo.png'},'PUBG Mobile':{type:'pubg',image:'/assets/platforms/pubg-logo.svg'},'Honkai: Star Rail':{type:'honkai',image:'/assets/platforms/honkai-logo.svg'}};

diff --git a/public/catalog.html b/public/catalog.html
@@ -1,4 +1,4 @@
 <!doctype html><html lang="ru"><head><meta charset="utf-8"><meta name="viewport" content="width=device-width,initial-scale=1"><meta name="theme-color" content="#fff4f9"><title>Каталог — mupple</title><script>try{if(localStorage.getItem('theme')==='dark')document.documentElement.dataset.theme='dark'}catch{}</script><link rel="stylesheet" href="/assets/catalog-page.css?v=12"><script src="/assets/support.js" defer></script><link rel="stylesheet" href="/assets/polish.css?v=5"></head><body>
 <header class="topbar"><div class="brand-group"><a class="brand" href="/home" aria-label="mupple — на главную">mupple</a><button class="theme-toggle" type="button" aria-label="Сменить тему" aria-pressed="false"><svg viewBox="0 0 24 24" fill="none" stroke="currentColor" stroke-width="2" aria-hidden="true"><circle cx="12" cy="12" r="4"/><path d="M12 2v2m0 16v2M2 12h2m16 0h2M5 5l1.4 1.4M17.6 17.6 19 19M5 19l1.4-1.4M17.6 6.4 19 5"/></svg><svg viewBox="0 0 24 24" fill="none" stroke="currentColor" stroke-width="2" aria-hidden="true"><path d="M20.9 13A9 9 0 0 1 11 3.1 9 9 0 1 0 20.9 13Z"/></svg></button></div><nav class="nav" aria-label="Главное меню"><a href="/home">Главная</a><a href="/faq">FAQ</a><button class="support-link" type="button">Поддержка</button></nav><button id="catalog-cart" class="catalog-cart-button" type="button">КОРЗИНА <span id="catalog-cart-count">0</span></button><a class="donuts" href="/donuts">DONUTS <span id="balance">0</span> <img class="donut-icon" src="/assets/donut-cartoon.png" alt="" width="26" height="26"></a></header>
 <main class="wrap"><nav id="breadcrumbs" class="breadcrumbs" aria-label="Путь по каталогу"></nav><section class="catalog-panel" aria-labelledby="page-title"><a id="back-link" class="back-link" href="/home#catalog">← Назад</a><div class="page-header"><div class="page-header-copy"><p class="eyebrow">MUPPLE / КАТАЛОГ</p><p id="page-title" class="product-name"></p><h1>Сделай свой <span>выбор</span></h1><p id="subtitle" class="subtitle"></p><a class="banner-cta" href="#options" hidden>Посмотреть <span aria-hidden="true">→</span></a></div><div class="banner-scene" aria-hidden="true"></div></div><div id="options" class="options"></div><div id="empty" class="empty" hidden></div></section><footer><a id="footer-back" href="/home#catalog">← Назад</a><a href="/faq">Частые вопросы</a><a href="/offer">Оферта</a></footer></main>
-<dialog id="catalog-cart-dialog" class="catalog-cart-dialog" aria-labelledby="catalog-cart-title"><button class="catalog-cart-close" type="button" aria-label="Закрыть">×</button><h2 id="catalog-cart-title">Корзина</h2><div id="catalog-cart-items"></div><p id="catalog-cart-total"></p><a href="/home">На главную</a></dialog><div id="catalog-notice" class="catalog-notice" role="status" hidden></div><script type="module" src="/assets/catalog-page.js?v=14"></script></body></html>
+<dialog id="catalog-cart-dialog" class="catalog-cart-dialog" aria-labelledby="catalog-cart-title"><button class="catalog-cart-close" type="button" aria-label="Закрыть">×</button><h2 id="catalog-cart-title">Корзина</h2><div id="catalog-cart-items"></div><p id="catalog-cart-total"></p><a href="/home">На главную</a></dialog><div id="catalog-notice" class="catalog-notice" role="status" hidden></div><script type="module" src="/assets/catalog-page.js?v=15"></script></body></html>

diff --git a/public/assets/catalog-page.js b/public/assets/catalog-page.js
@@ -51,7 +51,7 @@ else{
     if(!option.pending&&!option.children){
      const card=document.createElement('article');card.className='catalog-product';
      const picture=document.createElement('div');picture.className='catalog-product-art';picture.setAttribute('aria-hidden','true');
-     if(customImages[name]){picture.classList.add('custom-product-art');picture.style.setProperty('--custom-art',`url(/assets/category-${customImages[name]}.png?v=2)`)}
+     if(customImages[name]){picture.classList.add('custom-product-art');picture.style.setProperty('--custom-art',`url(/assets/category-${customImages[name]}.png?v=3)`)}
      picture.style.setProperty('--product-icon',`url(/assets/${/подпис|pass|netflix|spotify/i.test(name+' '+option.label)?'category-subscription.svg':/gift|карт|steam|xbox|apple|google/i.test(name+' '+option.label)?'category-topup.svg':'category-game.svg'})`);
      picture.style.setProperty('--image',`url(/assets/catalog-cinematic-${Math.floor(scene/6)+1}.png)`);picture.style.setProperty('--x',`${(scene%2)*100}%`);picture.style.setProperty('--y',`${Math.floor((scene%6)/2)*50}%`);picture.style.setProperty('--ratio',Math.floor(scene/6)===1?'2.25':'2.665');
      const content=document.createElement('div');content.className='catalog-product-content';const productTitle=document.createElement('h2');const productName=displayProductName(name,option,ancestors.map(x=>x.label));productTitle.textContent=productName;
